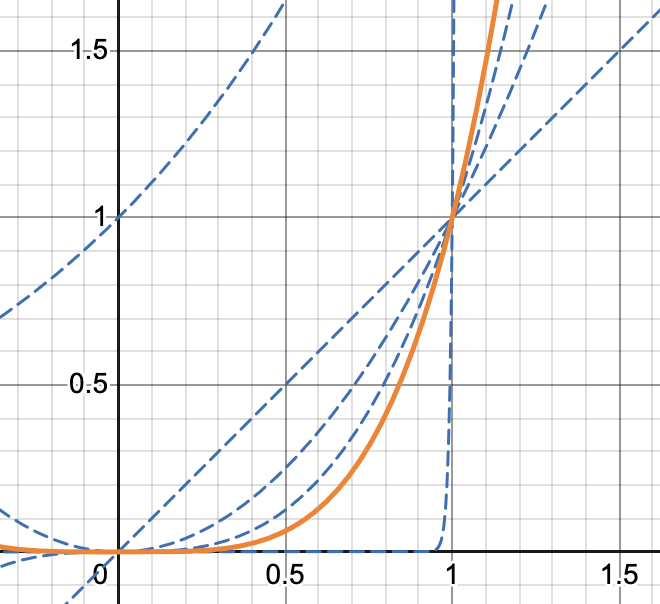
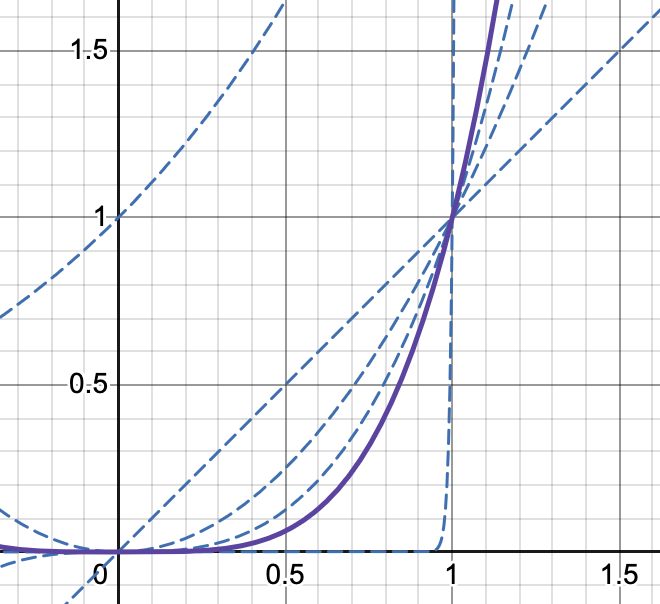
exp 3

diff --git a/modules/README.md b/modules/README.md
@@ -621,6 +621,21 @@ The function VCV itself uses is x<sup>4<sup>.
 
 ![Quartic function](i/graph-6.png)
 
+Trimming off the also rans, let us compare the normal VCA behaviour (linear,
+blue) and the VCA behaviour when the "Exponential response" option in the right
+click menu is turned on (x<sup>4</sup>, purple).
+
+![VCV VCA - Linear vs exponential response](i/graph-7.png)
+
+We can see that it rises slower (which it needs to do if we want to retain the
+full dynamic range instead of peaking at 1 too early), with almost nothing
+happening until the input is ~0.5V, and then suddenly starts to ramp up,
+reaching 1 at the same time as its default linear counterpart.
+
+The output for a particular input voltage will always be smaller (as compared to
+the default linear response) when the exponential response is enabled, but
+because of the sharper rise in the second half, the overall sound's rise will
+feel more, um, just to use the same adjective as the manual, _aggressive_.
 
 ---
 
